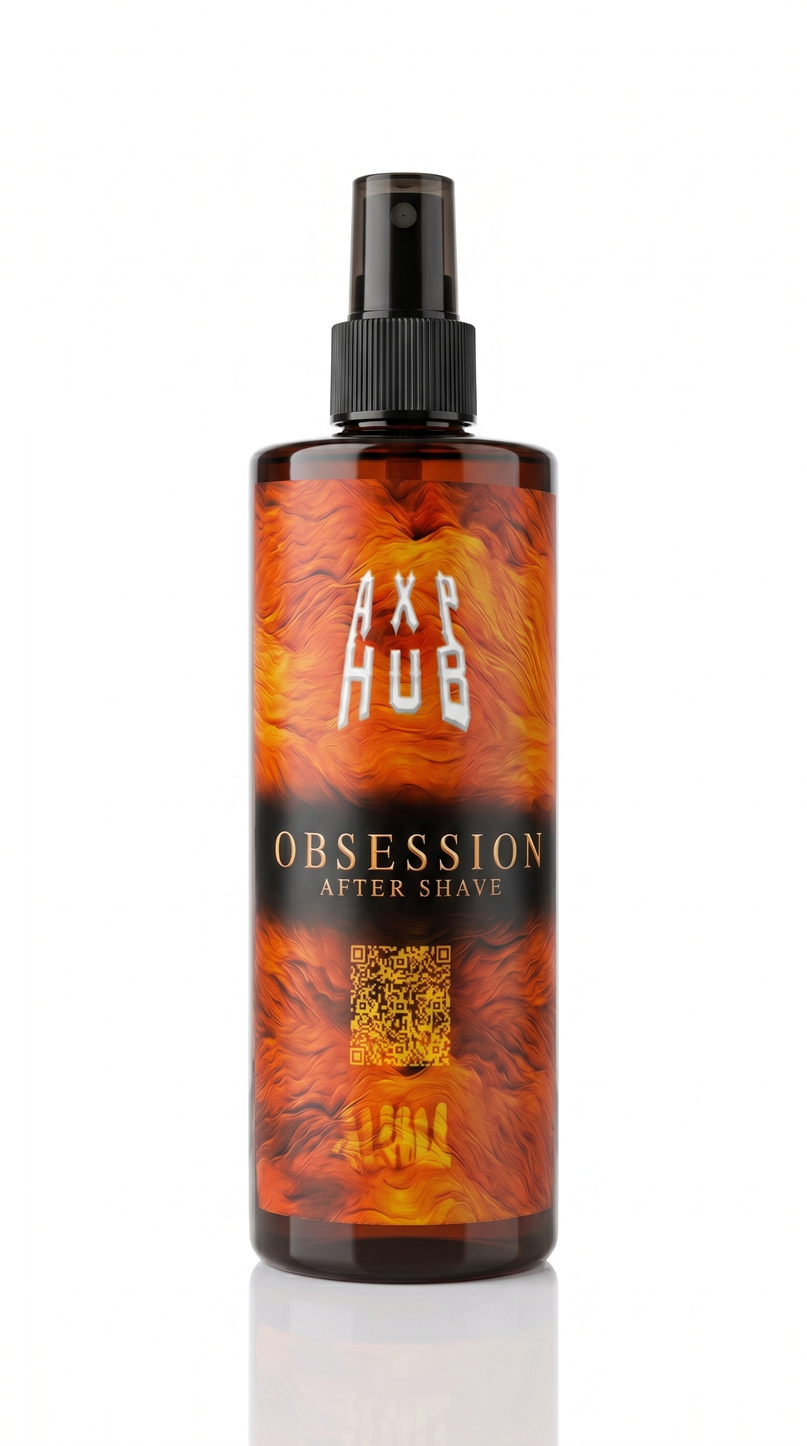
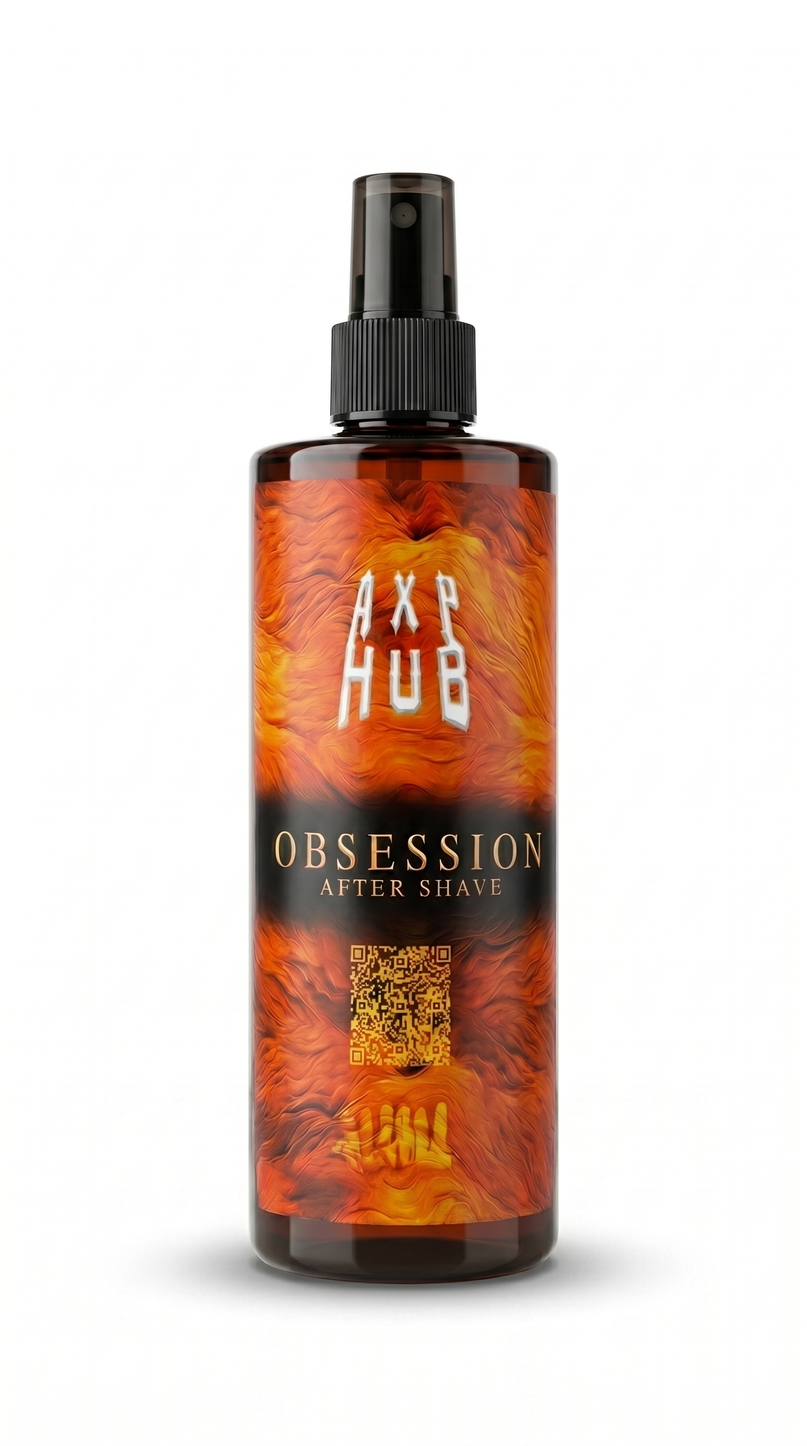
Replace obsession image and fix product photos to fill card fully (cover, no margins)

diff --git a/styles.css b/styles.css
@@ -365,14 +365,14 @@ ul { list-style: none; }
 .product-card-img {
   border-radius: var(--radius-lg) var(--radius-lg) 0 0;
   overflow: hidden;
-  background: #fff;
   aspect-ratio: 3 / 4.5;
 }
 .product-card-img img {
   display: block;
   width: 100%;
   height: 100%;
-  object-fit: contain;
+  object-fit: cover;
+  object-position: center top;
   transition: transform 500ms cubic-bezier(0.34, 1.56, 0.64, 1);
 }
 .product-card:hover .product-card-img img {
